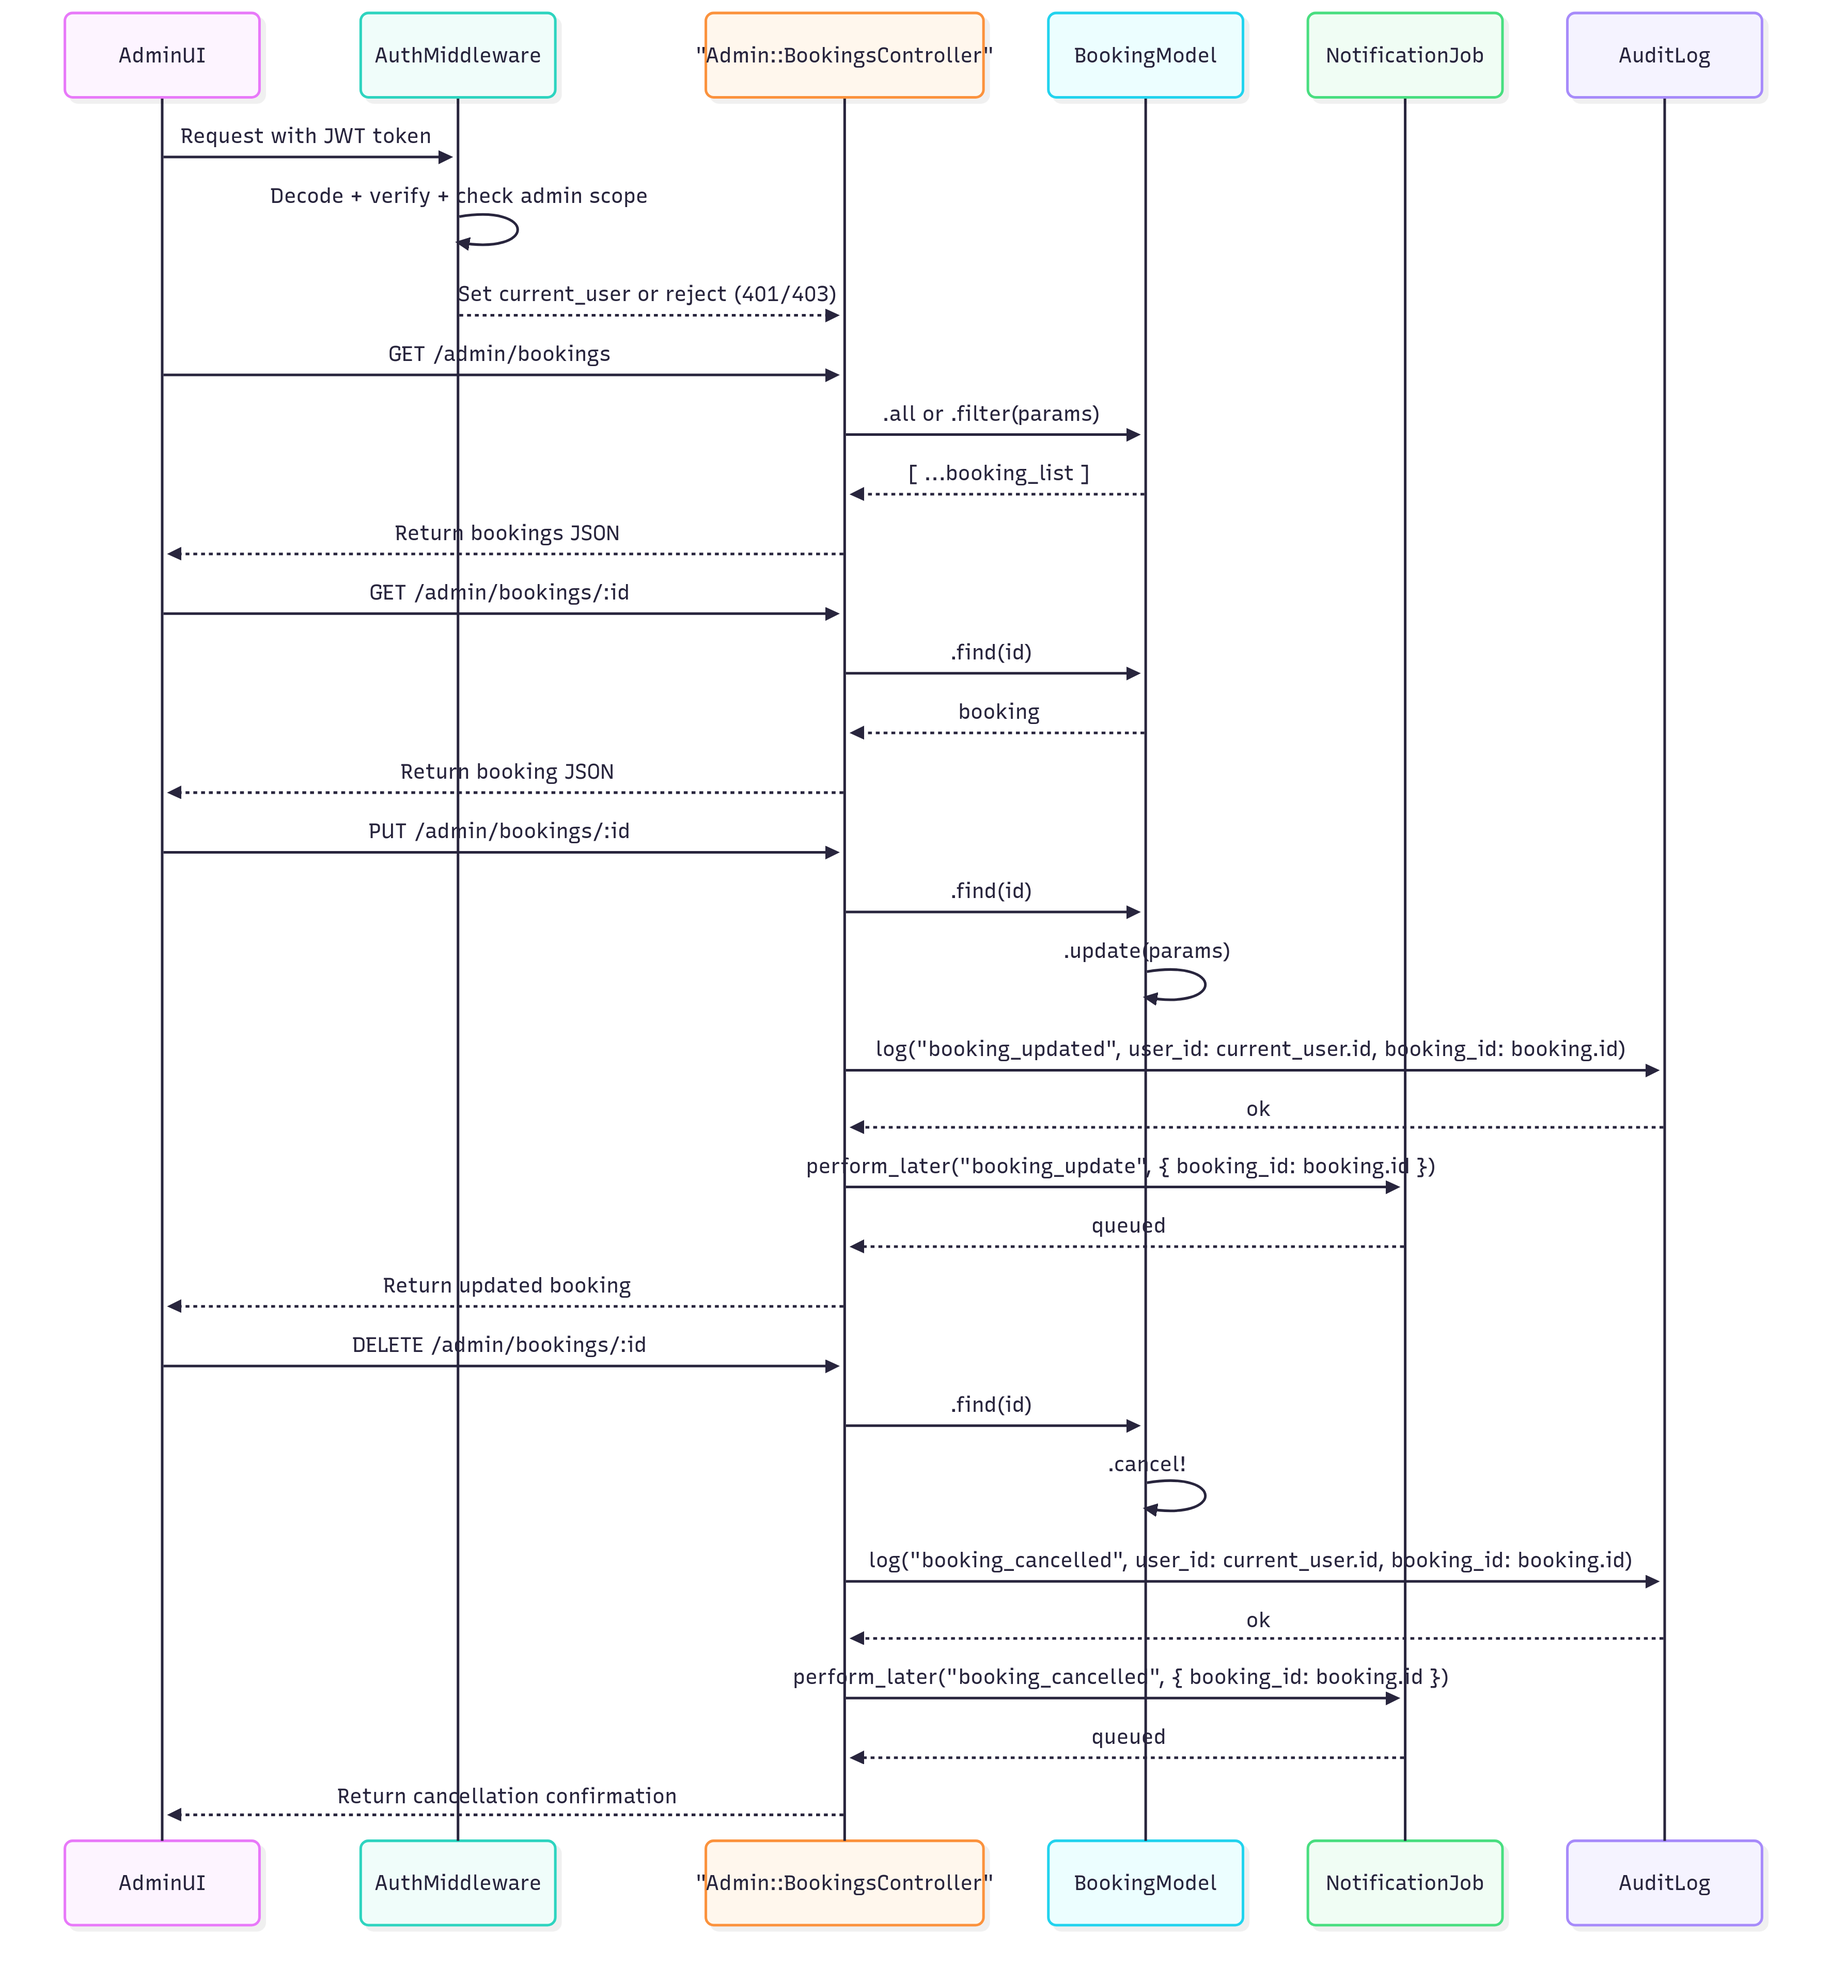
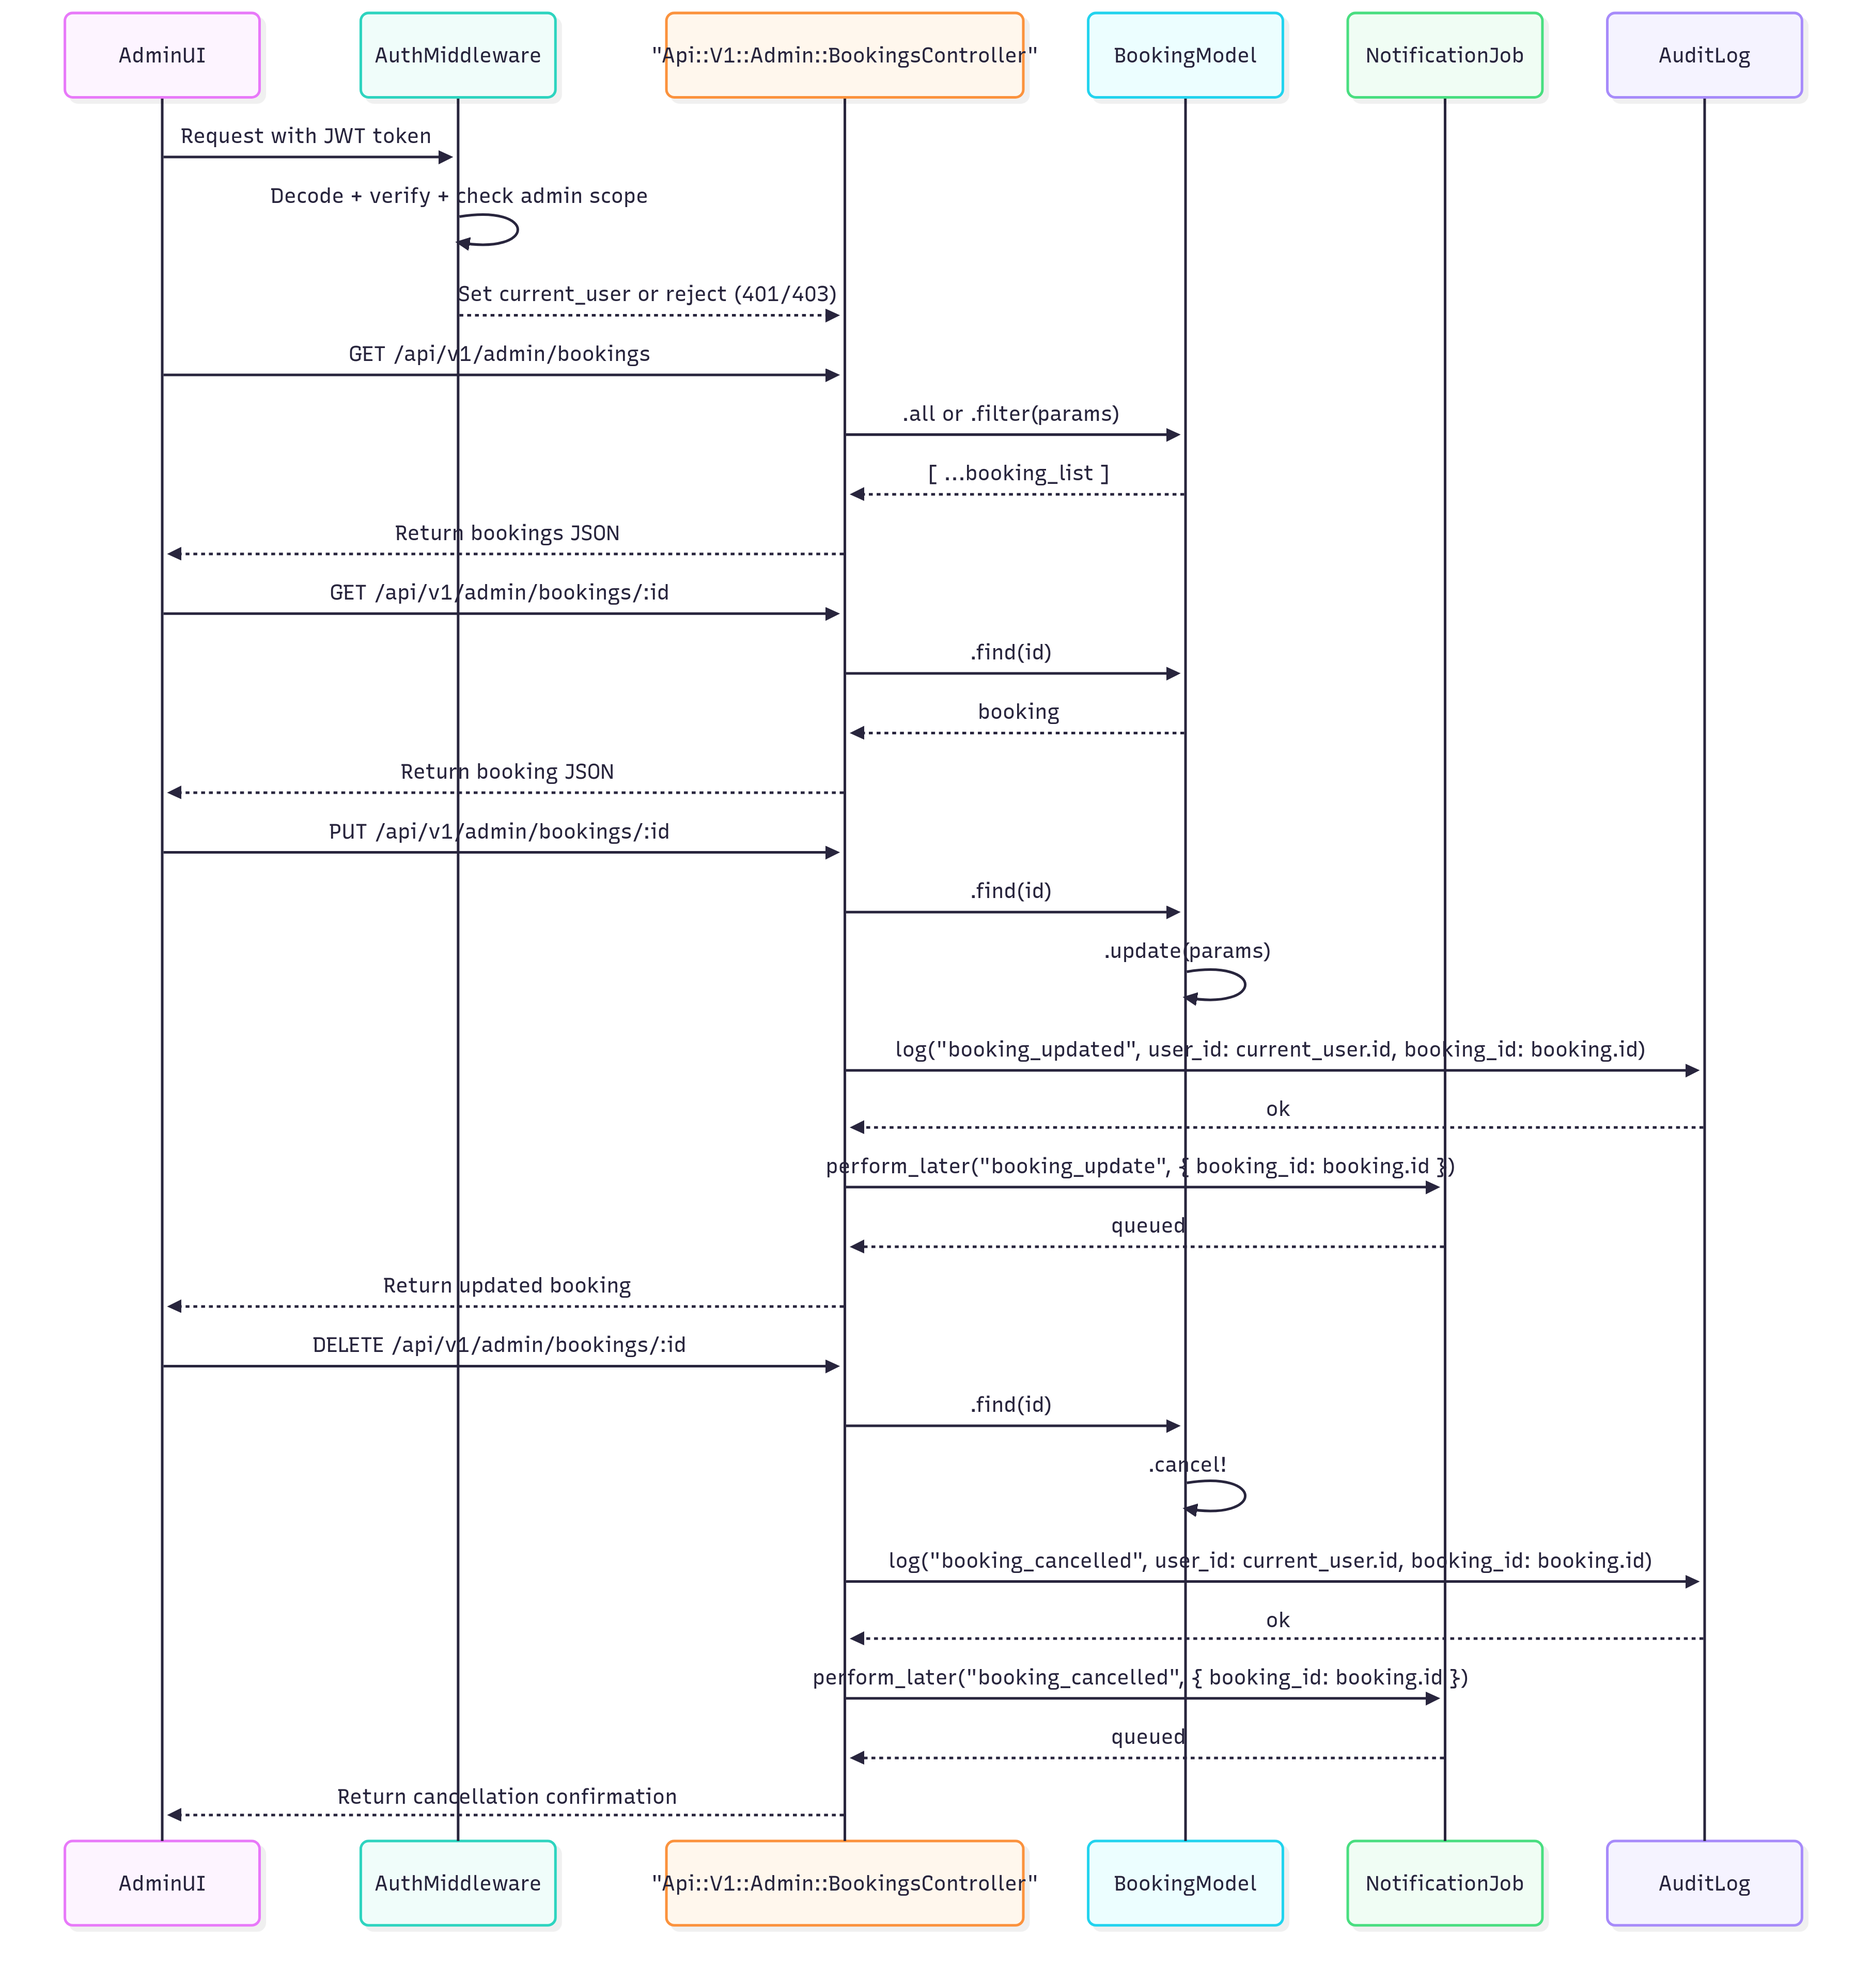
add missing namespaces in diagrams

diff --git a/system-design.md b/system-design.md
@@ -67,6 +67,8 @@ Three separate tables support different layers of the tour experience. TOURS rep
 <details>
 <summary><strong>Backend Components</strong></summary>
 
+> Note that the controllers are missing the Api::V1:: in the diagram below, because draw.io does not allow me to resize the objects, therefore many names were broken and it was better to keep without it.
+
 <img src="./imgs/c4-components.png" />
 
 </details>
